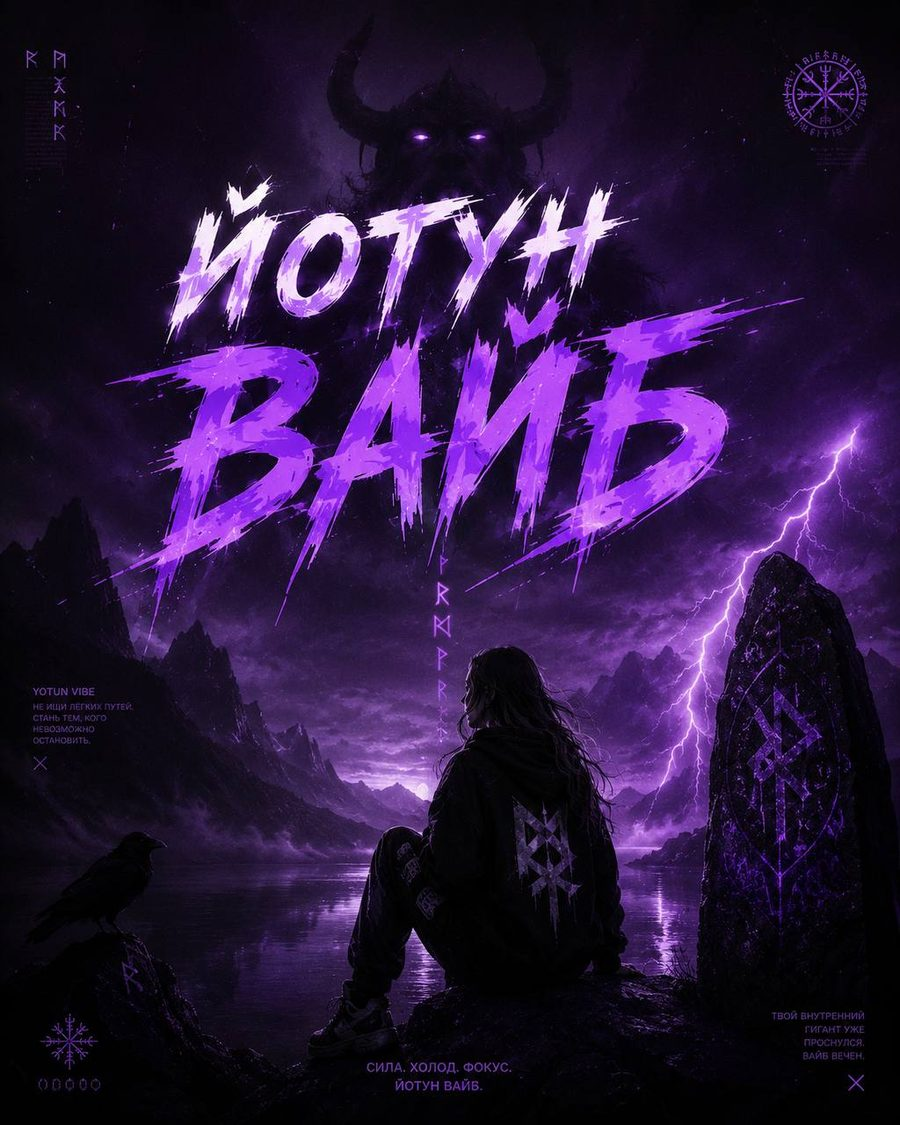
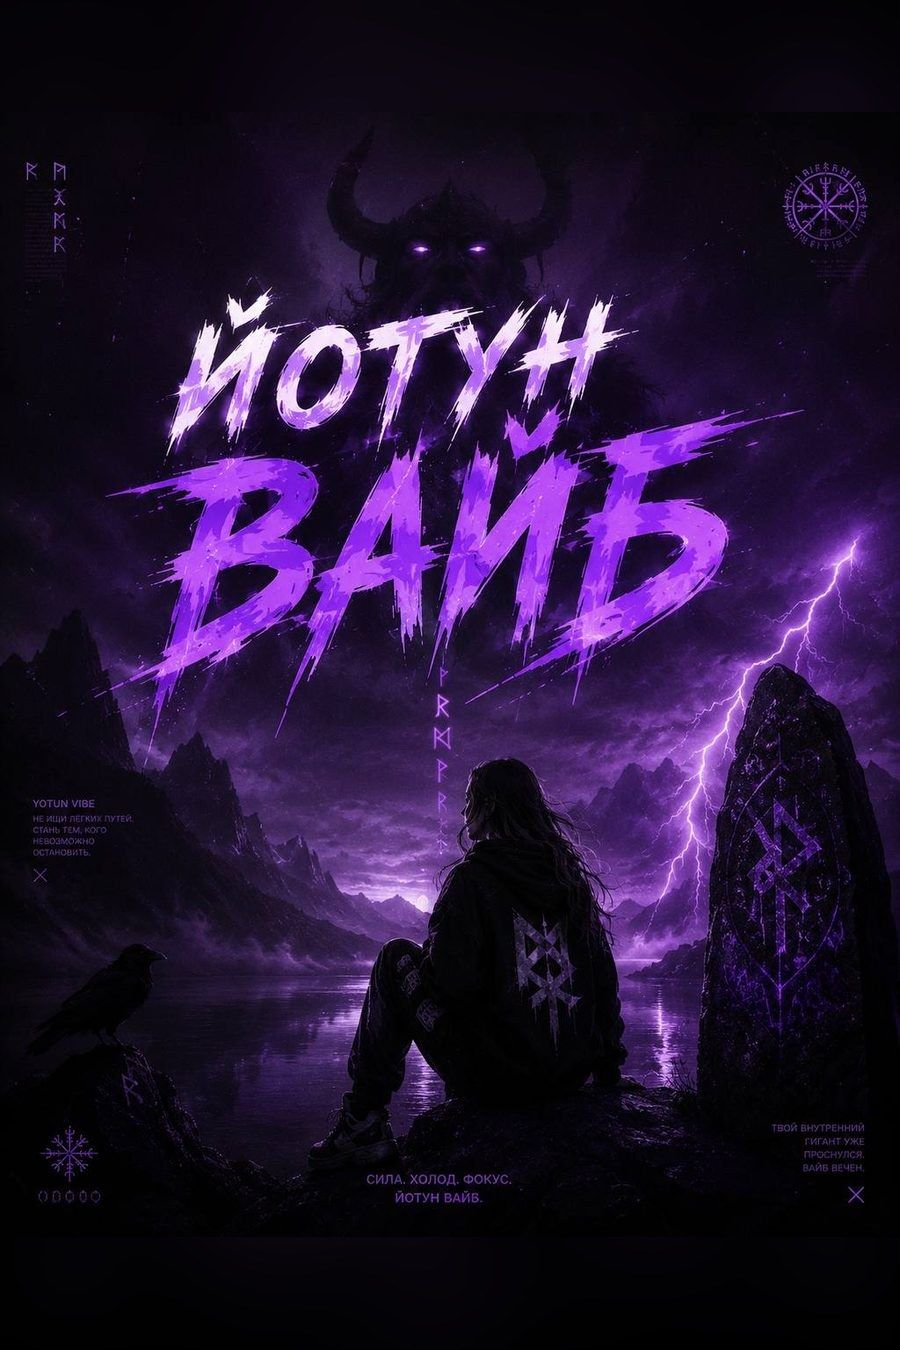
Fix systemic image cropping across the whole catalog (except nail-amulets, as scoped) + cart thumbnails + Осирис special-offer copy.
ROOT CAUSE: .product-img-wrap (main catalog cards), .new-card-img (Новинки
section), and .top-sale-img (Топ продаж section) were all forcing a square
1:1 container, but 21 of 33 product photos are actually 2:3 portrait
(0.666 aspect) - object-fit:cover was center-cropping roughly a third off
the height of the majority of images, and specifically clipped the
title text at the top of the newer matrix-poster-style photos (Легкий путь,
Путь ясной мысли, Эльфийская защита, Алая ведьма).

FIX PART 1 - containers: changed all three container classes from
aspect-ratio:1 (or fixed 220x220px for top-sale) to 2:3, matching the
majority image aspect exactly - the 21 already-2:3 images (including all 4
recently added ones) now display with zero cropping.

FIX PART 2 - the 13 outlier images that weren't 2:3 (squares, wide
banners, and various portrait-but-not-quite ratios: anti-larisa, attarax,
jotun-vibe, lotos-dushi, mother-teney-bracelet, mother-teney-pendant,
ogon-probuzhdeniya, ostara-3-colors, pechat-korolya, prime-bracelet,
prime-pendant, yablochny-pentakl, yol-banner-stranger-things) - padded
each to exactly 2:3 using a blurred+darkened stretched copy of the same
image as background fill, with the original pasted centered on top at full
size. Zero content lost (no guessing at crops on merchandise photos I
can't personally inspect for what's safe to cut) - same filenames, so no
HTML changes needed for these.
[…]

diff --git a/index.html b/index.html
@@ -125,8 +125,8 @@ body:active .cursor-sprite{transform:scale(0.88)}
 .top-sales-scroll::-webkit-scrollbar-thumb{background:rgba(0,255,65,0.25);border-radius:4px}
 .top-sale-card{position:relative;cursor:none;flex:0 0 auto;width:220px;scroll-snap-align:start;overflow:hidden}
 @media(max-width:480px){.top-sale-card{width:100%;flex:0 0 100%}}
-.top-sale-img{width:220px;height:220px;border-radius:12px 12px 0 0;overflow:hidden;background:rgba(0,20,8,0.6)}
-@media(max-width:480px){.top-sale-img{width:100%;height:auto;aspect-ratio:1/1}}
+.top-sale-img{width:220px;height:330px;border-radius:12px 12px 0 0;overflow:hidden;background:rgba(0,20,8,0.6)}
+@media(max-width:480px){.top-sale-img{width:100%;height:auto;aspect-ratio:2/3}}
 .top-sale-img img{width:100%;height:100%;object-fit:cover;object-position:center 15%}
 .top-sale-info{padding:14px 16px 16px}
 .top-sale-name{font-family:'Cinzel',serif;font-size:13px;font-weight:700;letter-spacing:.5px;color:var(--accent);text-transform:uppercase;line-height:1.3;margin-bottom:8px}
@@ -148,7 +148,7 @@ body:active .cursor-sprite{transform:scale(0.88)}
 @media(max-width:700px){.new-collection-grid{grid-template-columns:1fr;max-width:340px}}
 .new-card{position:relative;cursor:none;overflow:hidden}
 .new-card-badge{position:absolute;top:10px;left:10px;z-index:6;font-family:'VT323',monospace;font-size:12px;letter-spacing:2px;text-transform:uppercase;color:#000;background:var(--accent);padding:4px 10px;border-radius:5px;box-shadow:0 0 10px rgba(0,255,65,0.4)}
-.new-card-img{width:100%;aspect-ratio:1;overflow:hidden;background:rgba(0,20,8,0.6)}
+.new-card-img{width:100%;aspect-ratio:2/3;overflow:hidden;background:rgba(0,20,8,0.6)}
 .new-card-img img{width:100%;height:100%;object-fit:cover;object-position:center 15%;transition:transform .4s}
 .new-card:hover .new-card-img img{transform:scale(1.05)}
 .new-card-info{padding:16px 18px 20px}
@@ -252,6 +252,8 @@ body:active .cursor-sprite{transform:scale(0.88)}
 .cart-empty{text-align:center;color:rgba(0,255,65,0.3);font-size:12px;letter-spacing:2px;padding:60px 20px;line-height:2}
 .cart-item{display:grid;grid-template-columns:auto 1fr auto;gap:12px;align-items:center;padding:14px 0;border-bottom:1px solid rgba(0,255,65,0.08)}
 .cart-item-rune{font-family:'VT323',monospace;font-size:28px;color:var(--accent-dim);width:36px;text-align:center}
+.cart-item-thumb{width:36px;height:54px;border-radius:5px;overflow:hidden;flex-shrink:0;background:rgba(0,20,8,0.6)}
+.cart-item-thumb img{width:100%;height:100%;object-fit:cover;display:block}
 .cart-item-name{font-size:12px;color:#c8ffda;line-height:1.5}
 .cart-item-price{font-family:'VT323',monospace;font-size:16px;color:var(--accent)}
 .cart-item-del{background:none;border:none;color:rgba(0,255,65,0.25);cursor:none;font-size:16px;margin-top:4px;display:block}
@@ -436,7 +438,7 @@ nav{position:fixed;top:0;left:0;right:0;z-index:400;display:flex;align-items:cen
 @keyframes holoShift{0%{background-position:0% 50%}100%{background-position:250% 50%}}
 .product-card.show{display:block;animation:fadeIn .4s ease}
 .product-card:hover{transform:translateY(-5px);box-shadow:0 10px 32px rgba(0,255,65,0.14)}
-.product-img-wrap{position:relative;aspect-ratio:1;overflow:hidden;background:rgba(0,20,8,0.6)}
+.product-img-wrap{position:relative;aspect-ratio:2/3;overflow:hidden;background:rgba(0,20,8,0.6)}
 .osiris-matrix-bg{position:absolute;inset:0;width:100%;height:100%}
 .osiris-scale-icon{position:absolute;inset:0;width:70%;height:70%;margin:auto;overflow:visible}
 .osiris-scale-icon-modal{width:60%;max-width:280px;height:auto;overflow:visible}
@@ -949,7 +951,7 @@ nav{position:fixed;top:0;left:0;right:0;z-index:400;display:flex;align-items:cen
     <div class="special-offer-body">
       <div class="modal-collection">Самайн · Египет</div>
       <div class="special-offer-name">Весы Осириса</div>
-      <p class="special-offer-text">Амулет суда и правды, заряженный в египетском некрополе. Замораживает чужое, отсекает паразитов, возвращает равновесие — последний экземпляр этого сезона.</p>
+      <p class="special-offer-text">Кулон-арбитр честного баланса — ось, на которой взвешивается душа и правда. Превращает суд в очищение, а карму — в равновесие — последний экземпляр этого сезона.</p>
       <div class="special-offer-footer">
         <span class="modal-price">29 900 ₽</span>
         <button class="product-btn" onclick="openProductModal(17)">Смотреть</button>
@@ -2040,7 +2042,10 @@ function renderCart(){
     sum += lineTotal;
     var div = document.createElement('div');
     div.className = 'cart-item';
-    div.innerHTML = '<div class="cart-item-rune">'+item.rune+'</div>'
+    var thumbHtml = item.img
+      ? '<div class="cart-item-thumb"><img src="'+item.img+'" alt="" loading="lazy"></div>'
+      : '<div class="cart-item-rune">'+item.rune+'</div>';
+    div.innerHTML = thumbHtml
       +'<div><div class="cart-item-name">'+item.name+(qty>1?' × '+qty:'')+'</div>'
       +'<button class="cart-item-del" onclick="removeFromCart('+i+')">✕ убрать</button></div>'
       +'<div class="cart-item-price">'+lineTotal.toLocaleString('ru-RU')+' ₽</div>';
@@ -2051,7 +2056,12 @@ function renderCart(){
 }
 
 function addToCart(id, name, price, rune, qty){
-  cart.push({id:id, name:name, price:price, rune:rune, qty: qty || 1});
+  var img = null;
+  try{
+    var card = document.querySelector('.product-card[data-id="'+id+'"] .product-img');
+    if(card) img = card.getAttribute('src');
+  }catch(e){}
+  cart.push({id:id, name:name, price:price, rune:rune, qty: qty || 1, img: img});
   saveCartToStorage();
   renderCart();
   openCart();

diff --git a/nail-amulets/index.html b/nail-amulets/index.html
@@ -173,6 +173,8 @@ footer{position:relative;z-index:1;text-align:center;padding:50px 24px 40px}
 .cart-empty{text-align:center;color:rgba(0,255,65,0.3);font-size:12px;letter-spacing:2px;padding:60px 20px;line-height:2}
 .cart-item{display:grid;grid-template-columns:auto 1fr auto;gap:12px;align-items:center;padding:14px 0;border-bottom:1px solid rgba(0,255,65,0.08)}
 .cart-item-rune{font-family:'VT323',monospace;font-size:28px;color:var(--accent-dim);width:36px;text-align:center}
+.cart-item-thumb{width:36px;height:54px;border-radius:5px;overflow:hidden;flex-shrink:0;background:rgba(0,20,8,0.6)}
+.cart-item-thumb img{width:100%;height:100%;object-fit:cover;display:block}
 .cart-item-name{font-size:12px;color:#c8ffda;line-height:1.5}
 .cart-item-price{font-family:'VT323',monospace;font-size:16px;color:var(--accent)}
 .cart-item-del{background:none;border:none;color:rgba(0,255,65,0.25);cursor:pointer;font-size:16px;margin-top:4px;display:block}
@@ -1260,7 +1262,10 @@ function renderCart(){
     sum += lineTotal;
     var div = document.createElement('div');
     div.className = 'cart-item';
-    div.innerHTML = '<div class="cart-item-rune">'+item.rune+'</div>'
+    var thumbHtml = item.img
+      ? '<div class="cart-item-thumb"><img src="'+item.img+'" alt="" loading="lazy"></div>'
+      : '<div class="cart-item-rune">'+item.rune+'</div>';
+    div.innerHTML = thumbHtml
       +'<div><div class="cart-item-name">'+item.name+(qty>1?' × '+qty:'')+'</div>'
       +'<button class="cart-item-del" onclick="removeFromCart('+i+')">✕ убрать</button></div>'
       +'<div class="cart-item-price">'+lineTotal.toLocaleString('ru-RU')+' ₽</div>';
